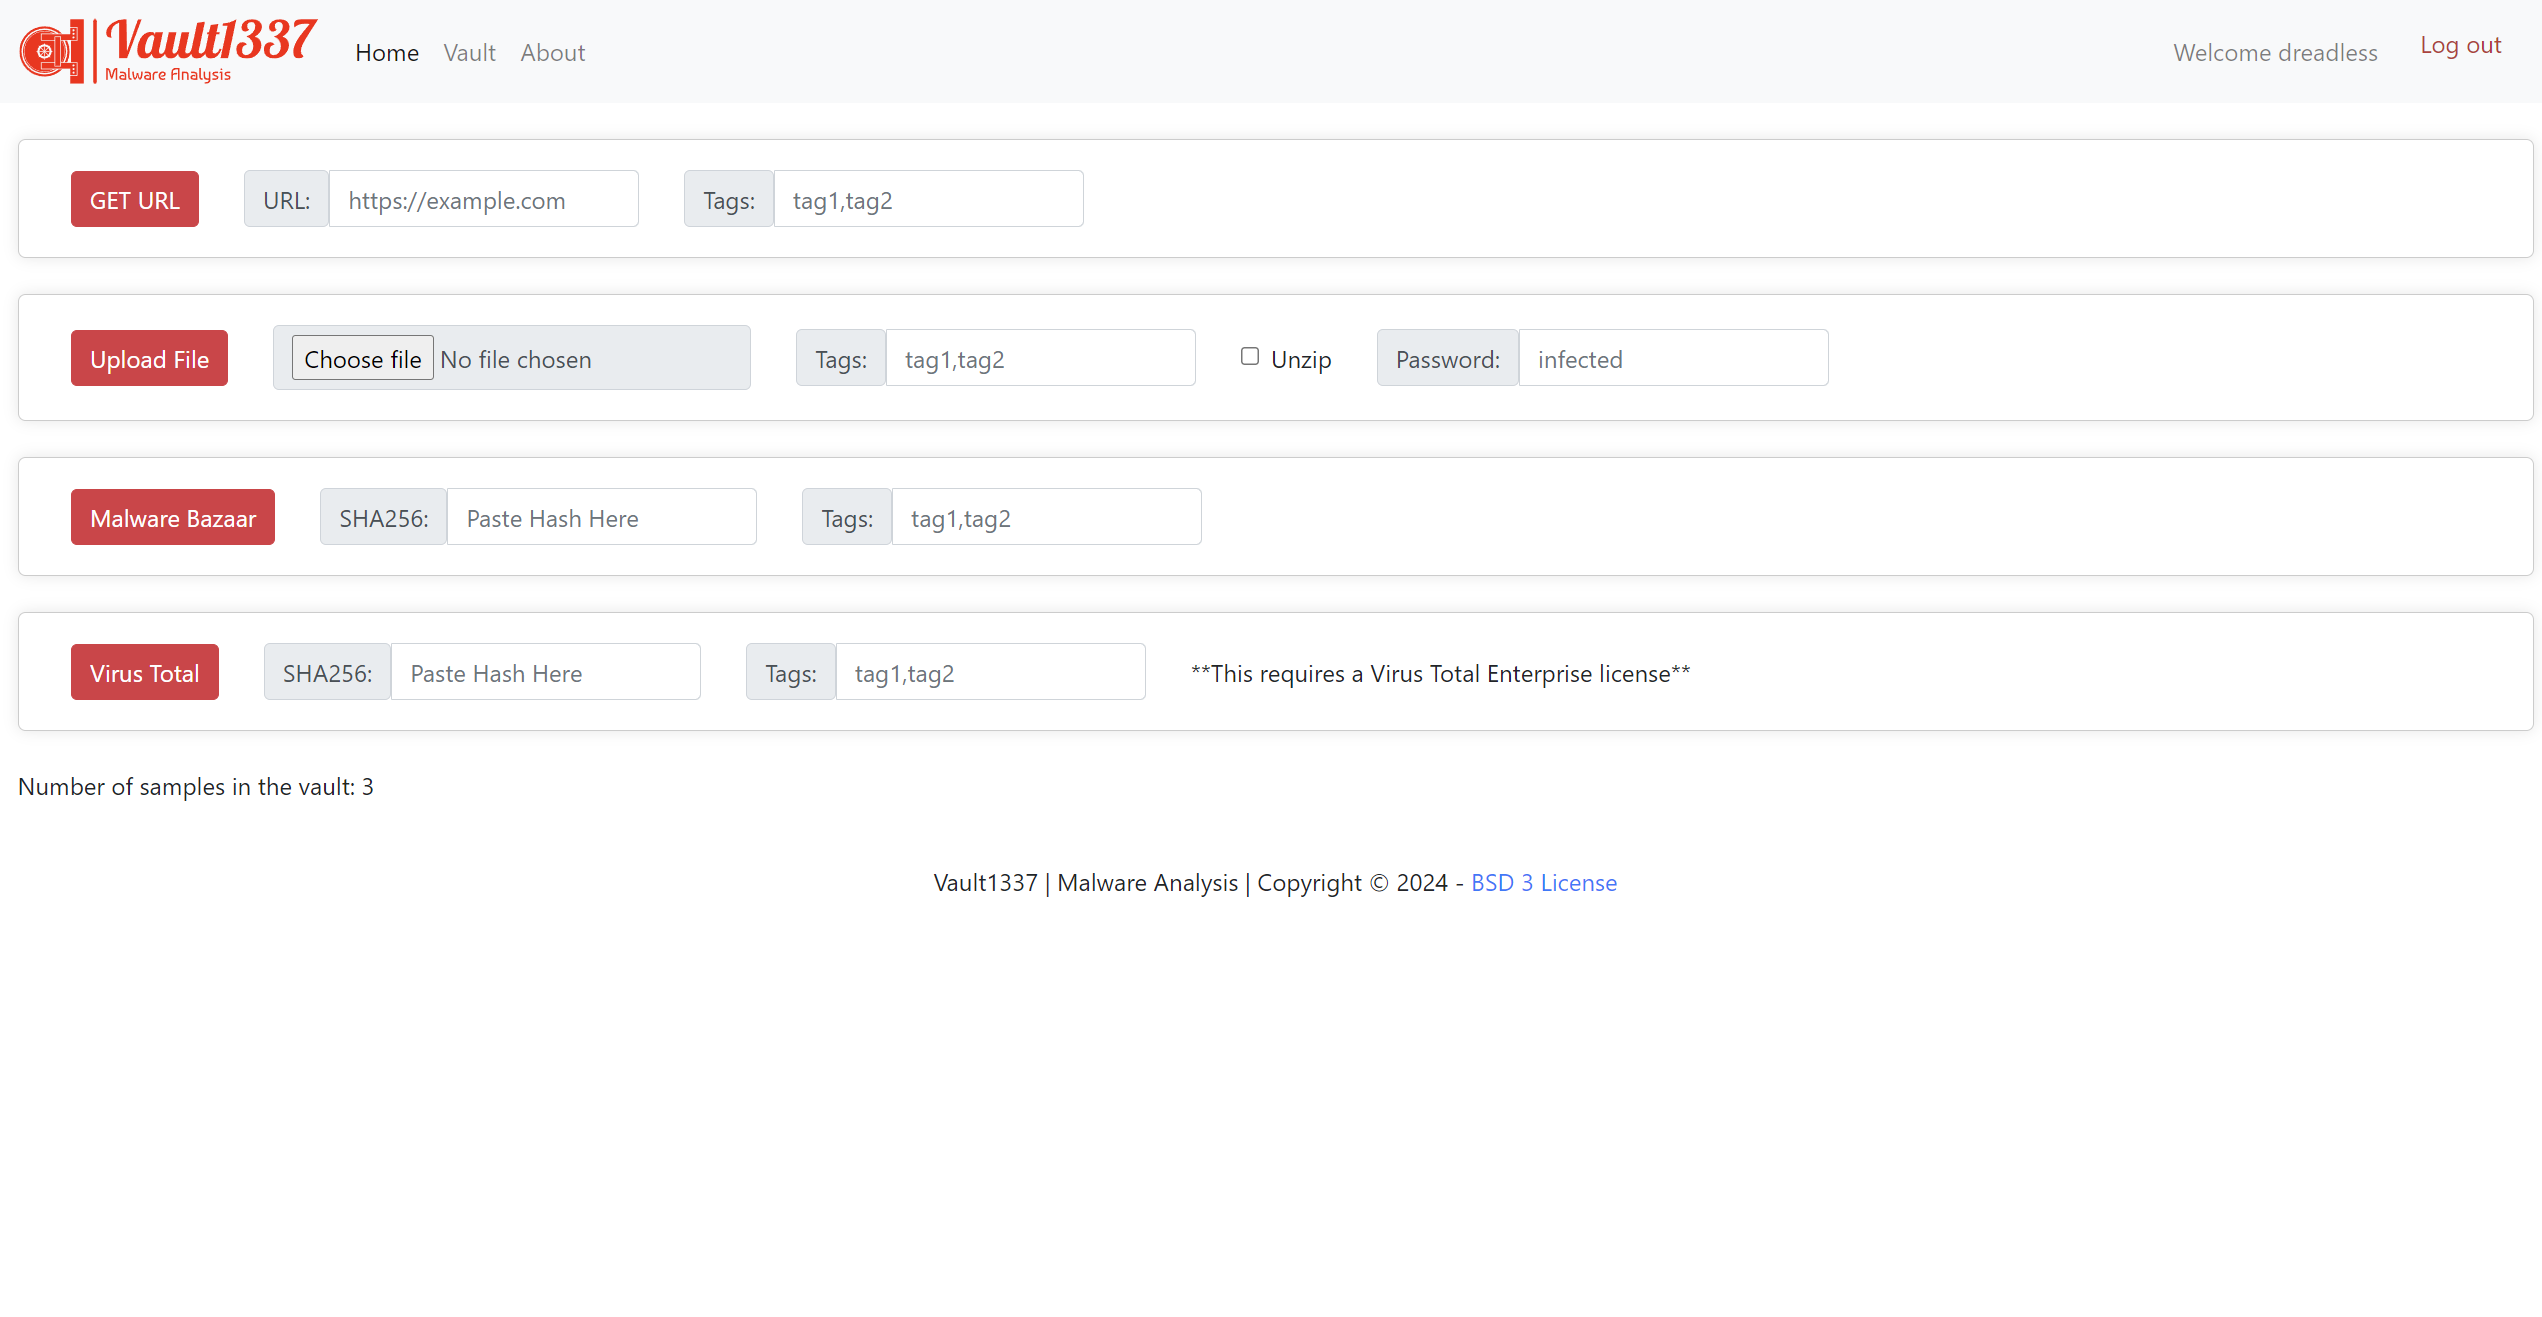
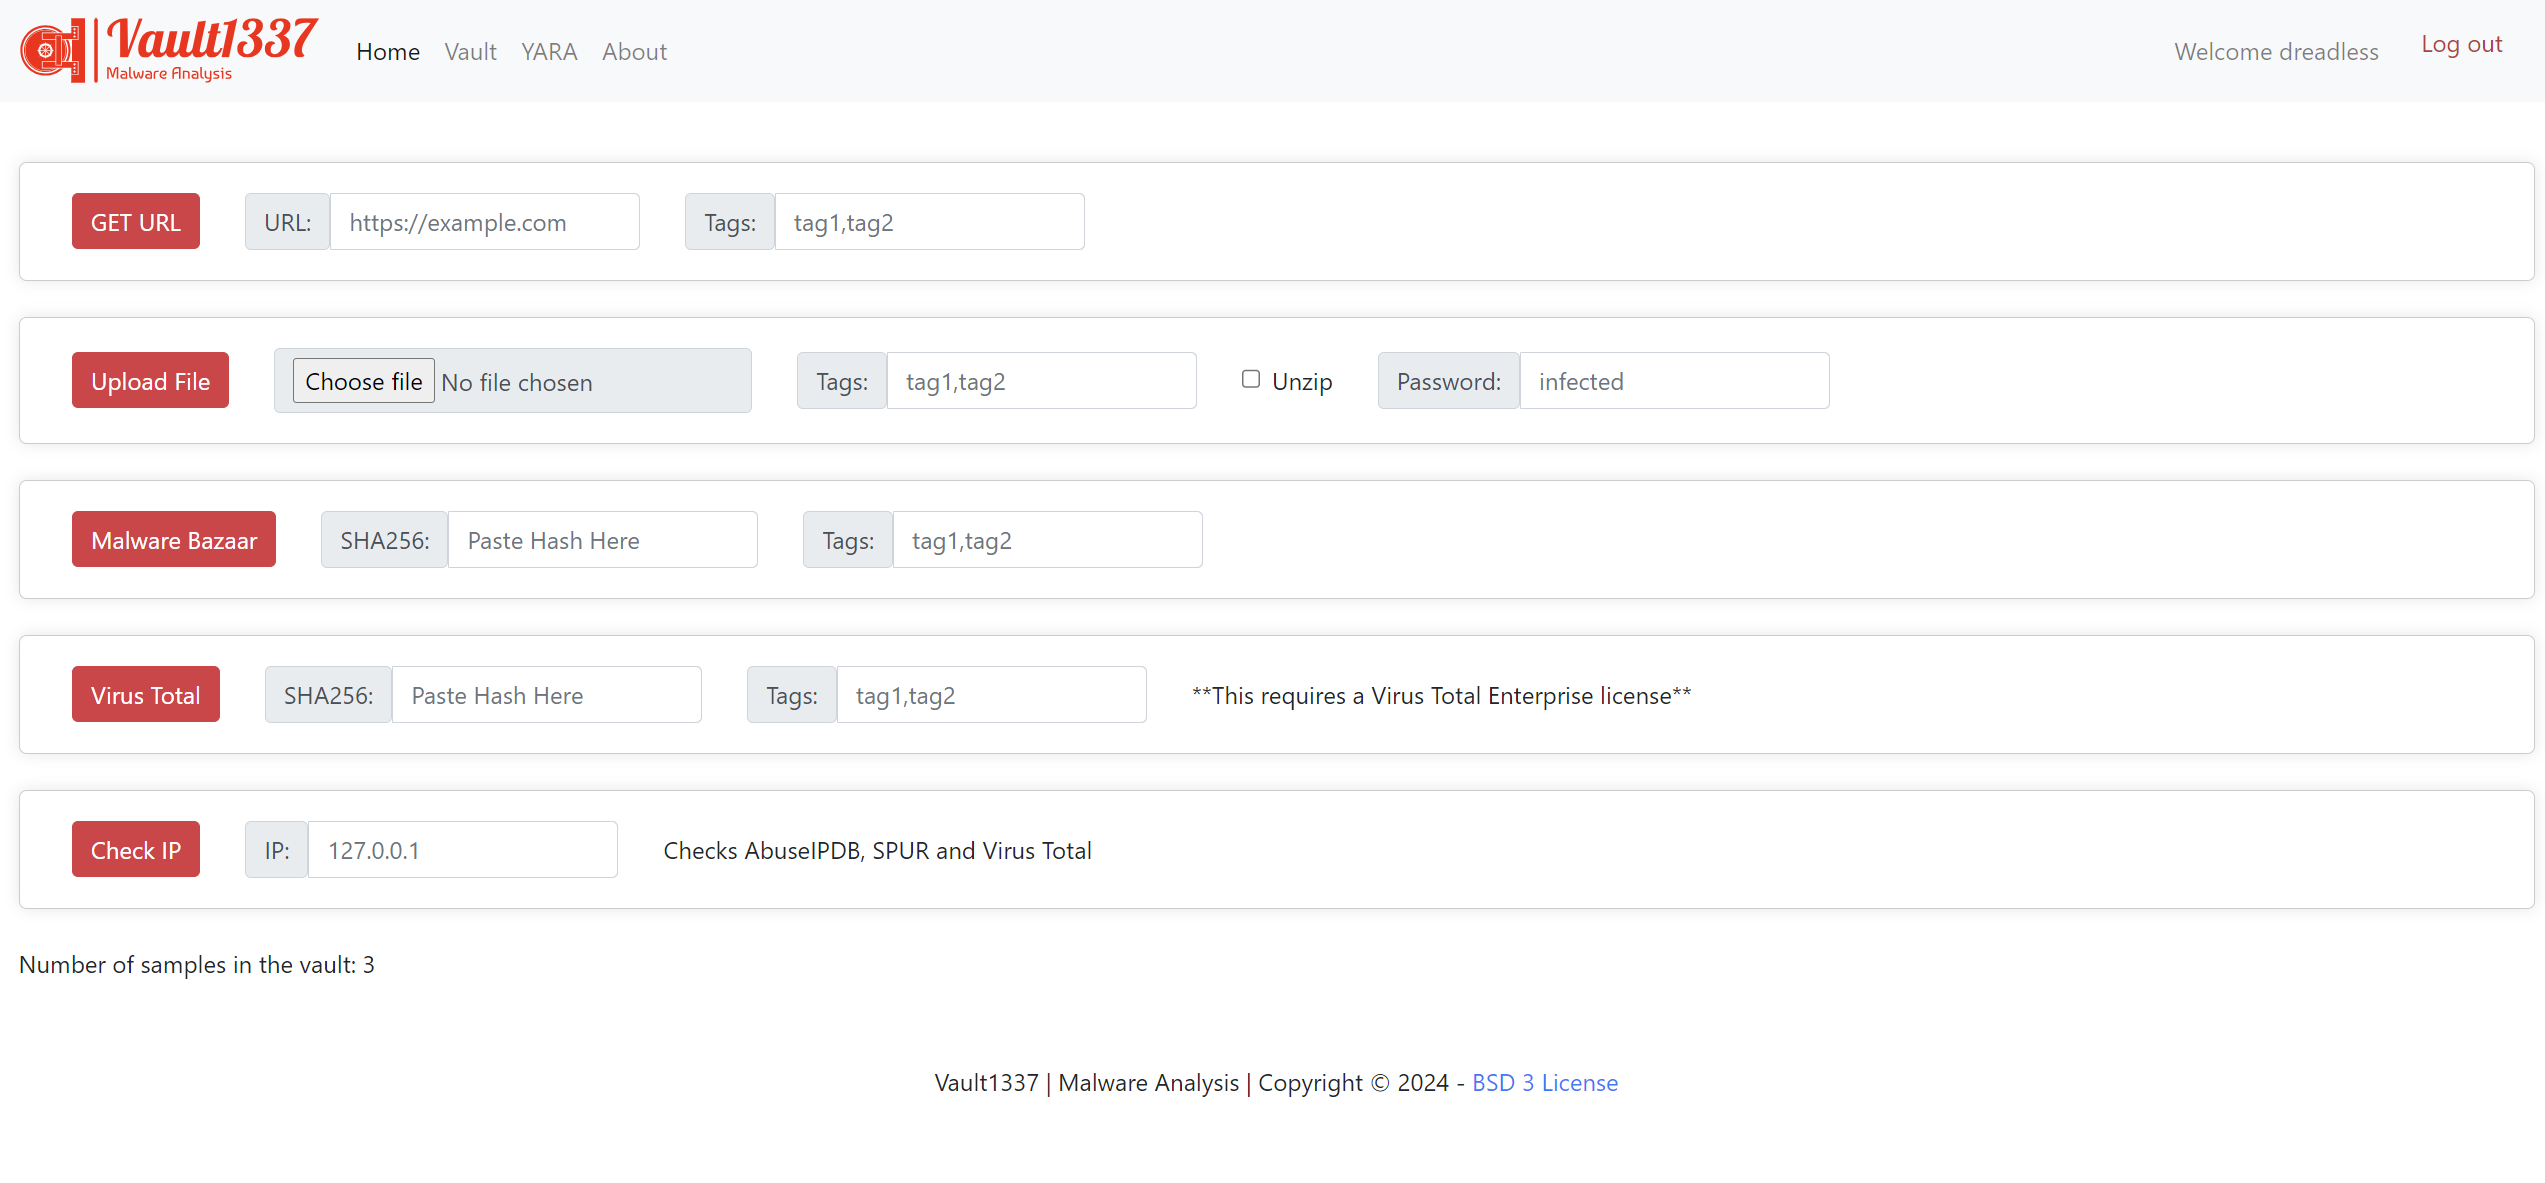
readme update

diff --git a/README.md b/README.md
@@ -161,3 +161,7 @@ python manage.py shell
 ![Vault1337 logo](/vault/static/images/screenshots/Tool_View_Strings.png "Strings Tool In Use")
 
 ![Vault1337 logo](/vault/static/images/screenshots/Tool_View_LIEF.png "LIEF parser Tool In Use")
+
+![Vault1337 logo](/vault/static/images/screenshots/ip_rep_1.png "IP Reputation")
+
+![Vault1337 logo](/vault/static/images/screenshots/ip_rep_2.png "IP Reputation")
